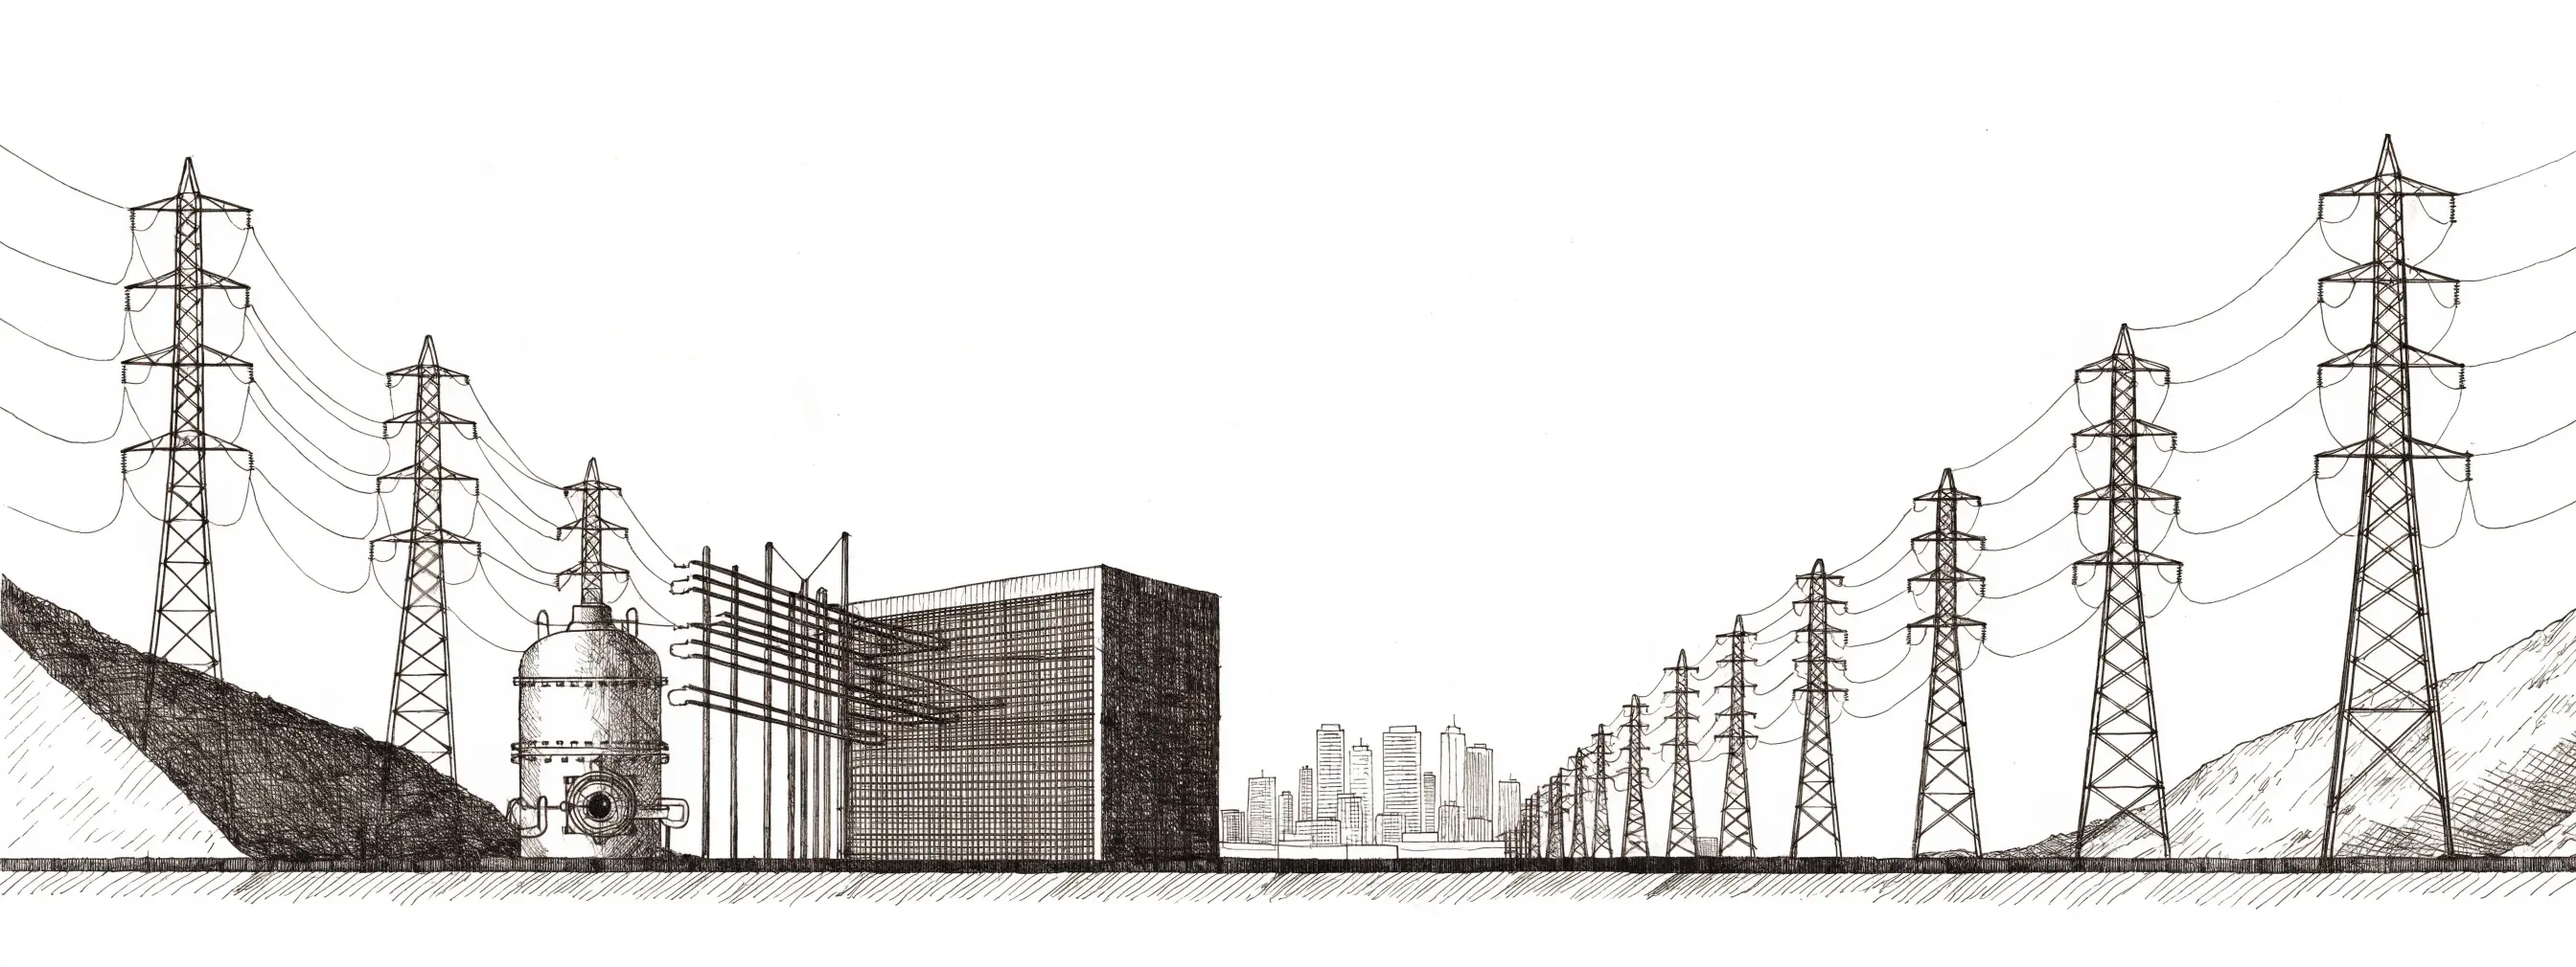
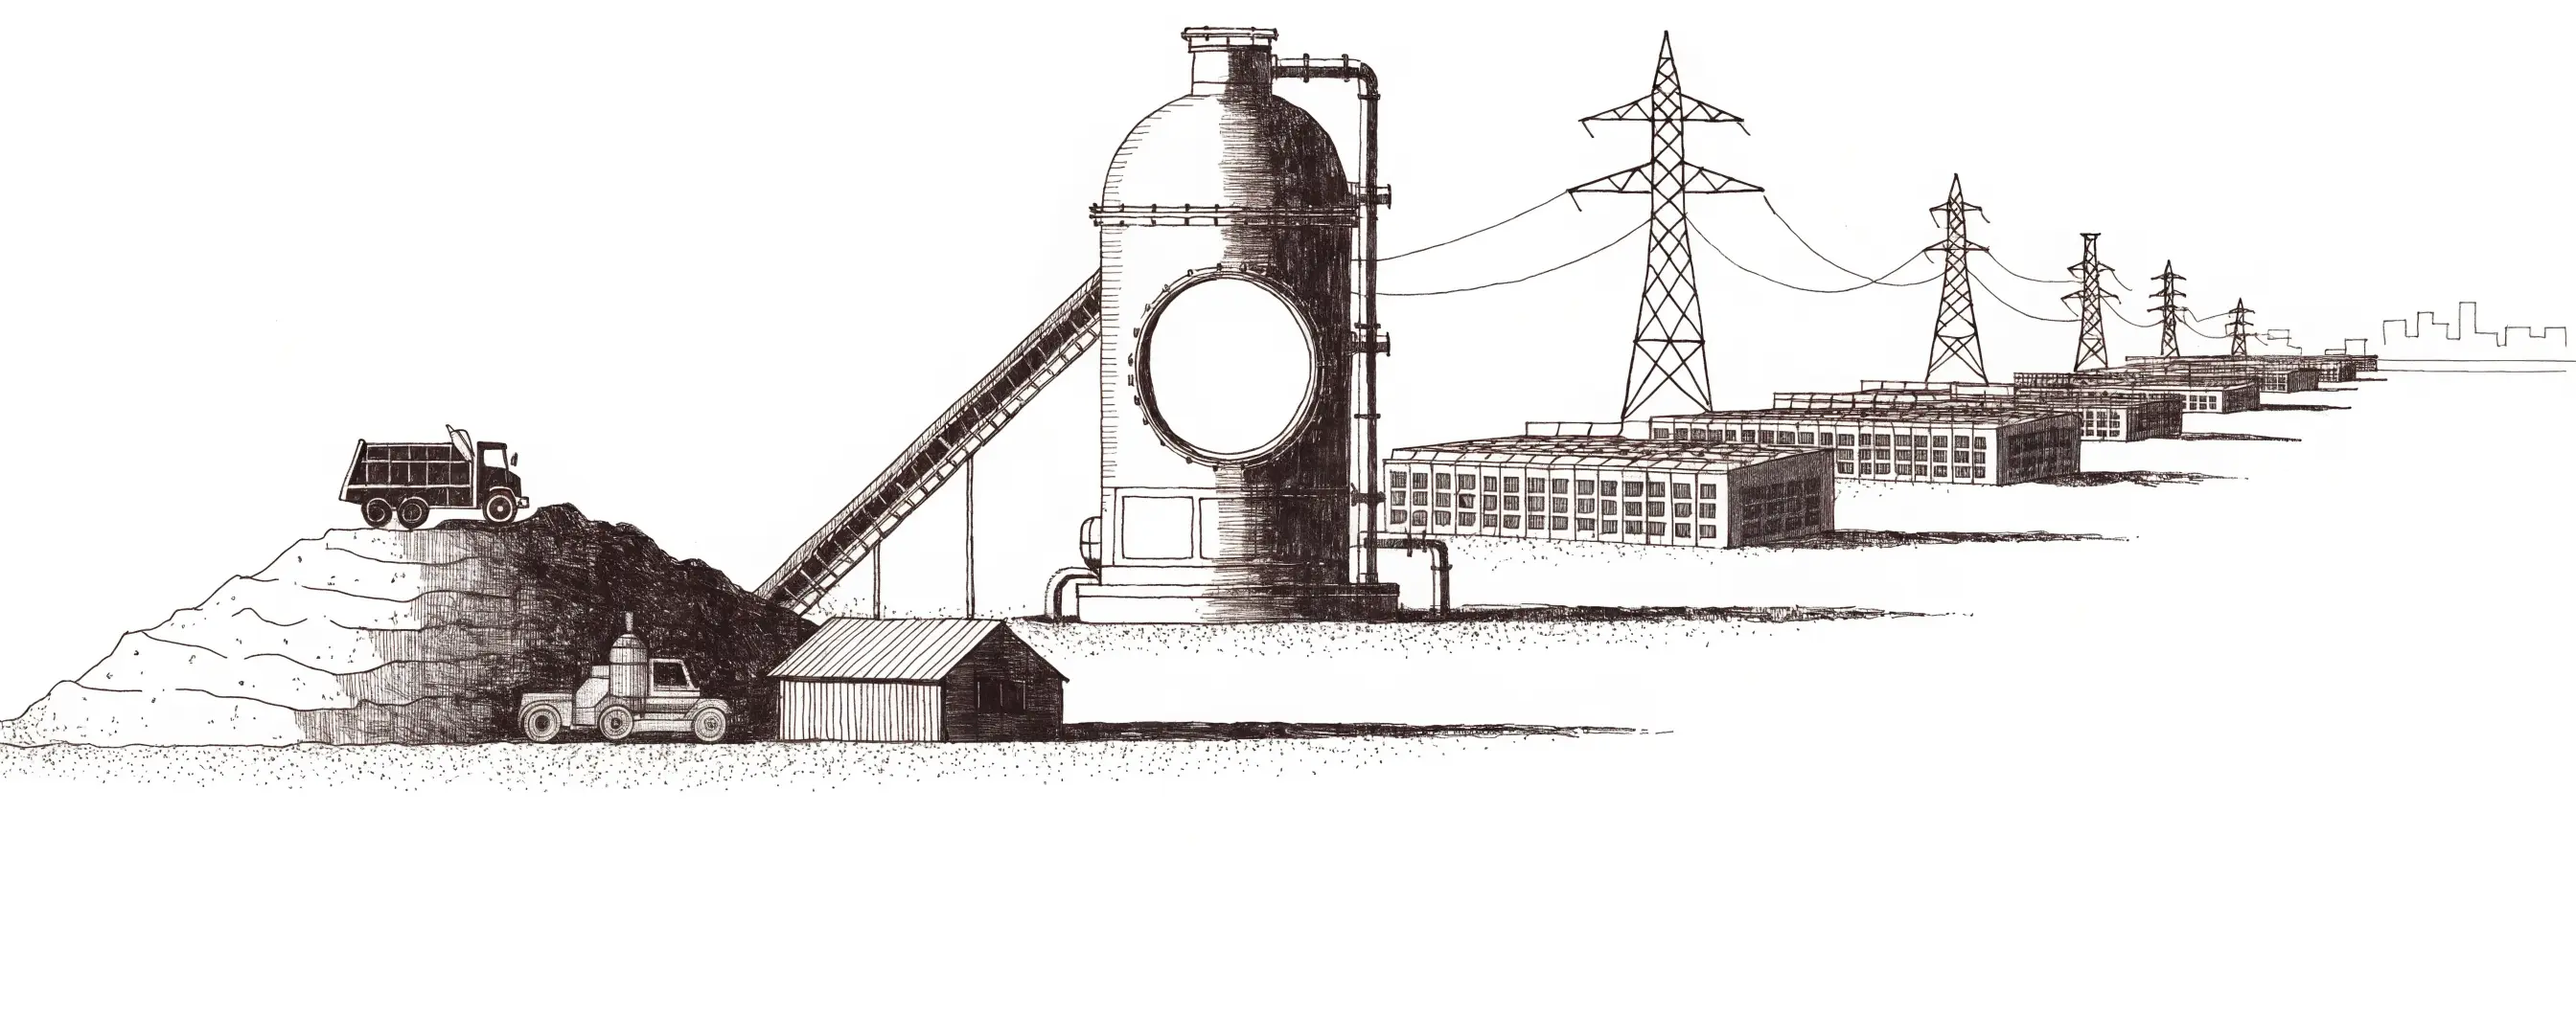
Layered-depth hero

Changed region(s): [[0.0, 0.0, 1.0, 0.9515]]

diff --git a/index.html b/index.html
@@ -139,12 +139,12 @@ h1{
 .pan-hint.off{opacity:0}
 @media (max-width:1000px){html.js .pan-hint{display:block}}
 .fig1-scroll{overflow-x:auto;overflow-y:hidden;scrollbar-color:var(--navy) #efeff2;scrollbar-width:thin}
-.fig1-stage{position:relative;min-width:900px;height:clamp(280px,44vh,440px);overflow:hidden}
-.fig1-track{position:relative;width:100%;height:100%;will-change:transform}
-.fig1-track img{width:100%;height:100%;object-fit:cover;object-position:50% 100%}
+.fig1-stage{position:relative;min-width:900px;overflow:hidden}
+.fig1-track{position:relative;width:100%}
+.fig1-track img{width:100%;height:auto;display:block}
 /* combustion material: the ember in the hero vessel and the energy pulses on the wires */
 .hero-ember{
-  position:absolute;left:23%;top:77%;width:7.5%;aspect-ratio:1;
+  position:absolute;left:47.4%;top:40%;width:9%;aspect-ratio:1;
   transform:translate(-50%,-50%);border-radius:50%;pointer-events:none;
   background:radial-gradient(circle,#f39b2d 0%,rgba(249,197,108,.9) 45%,rgba(249,197,108,0) 70%);
   mix-blend-mode:multiply;
@@ -691,13 +691,13 @@ FINISH: unreviewed and undocumented is unfinished; this build ends with the fini
         <div class="fig1-track">
           <img src="assets/fig1-panorama.webp" width="2688" height="1010"
                alt="Patent style sectional elevation drawing of a metropolitan perimeter: landfill mounds at each edge, rows of high voltage transmission towers, a reactor vessel and a data center building co-located beside the left landfill, city skyline in the distance.">
-          <button class="pin" style="left:5.5%;top:74%"  data-target="claim-1" data-part="10 · Landfill, the fuel">10</button>
-          <button class="pin" style="left:21%;top:60%"   data-target="claim-3" data-part="16 · The reactor">16</button>
-          <button class="pin" style="left:40%;top:56%"   data-target="claim-2" data-part="14 · Data center load">14</button>
-          <button class="pin" style="left:77%;top:60%"   data-target="claim-2" data-part="12 · Interconnection">12</button>
+          <button class="pin" style="left:15.5%;top:60%" data-target="claim-1" data-part="10 · Feedstock, the fuel">10</button>
+          <button class="pin" style="left:42.5%;top:62%" data-target="claim-3" data-part="16 · The reactor">16</button>
+          <button class="pin" style="left:63%;top:50%"   data-target="claim-2" data-part="14 · Data center load">14</button>
+          <button class="pin" style="left:65.5%;top:26%" data-target="claim-2" data-part="12 · Interconnection">12</button>
           <div class="hero-ember" aria-hidden="true"></div>
           <svg class="powerflow" viewBox="0 0 1000 380" preserveAspectRatio="none" aria-hidden="true">
-            <path id="wirepath" d="M195 208 C 260 176, 330 176, 410 198 C 490 218, 555 170, 640 190 C 720 208, 795 166, 875 188 C 930 202, 962 188, 1000 194" fill="none" stroke="none"/>
+            <path id="wirepath" d="M520 78 C 550 96, 610 92, 655 82 C 700 94, 715 96, 750 88 C 800 98, 850 96, 900 90 C 940 94, 970 92, 1000 90" fill="none" stroke="none"/>
             <circle class="pulse" r="3.4"><animateMotion dur="9s" repeatCount="indefinite"><mpath href="#wirepath"/></animateMotion></circle>
             <circle class="pulse" r="3.4"><animateMotion dur="9s" begin="-3s" repeatCount="indefinite"><mpath href="#wirepath"/></animateMotion></circle>
             <circle class="pulse" r="3.4"><animateMotion dur="9s" begin="-6s" repeatCount="indefinite"><mpath href="#wirepath"/></animateMotion></circle>
@@ -708,7 +708,7 @@ FINISH: unreviewed and undocumented is unfinished; this build ends with the fini
     </div>
     <span class="pan-hint" aria-hidden="true">Pan the drawing →</span>
   </div>
-  <p class="figcaption"><b>FIG. 1:</b> Data center and landfill co-located at the metropolitan perimeter, on existing high voltage lines. Numerals are live: select one to read its claim.</p>
+  <p class="figcaption"><b>FIG. 1:</b> Feedstock, conversion, and data center load on one site, on existing high voltage lines. Numerals are live: select one to read its claim.</p>
 </header>
 
 <div class="docbody">
